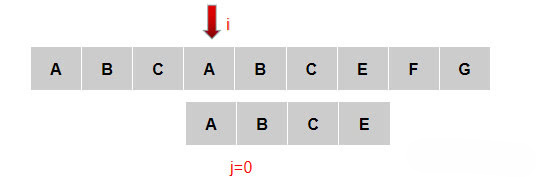
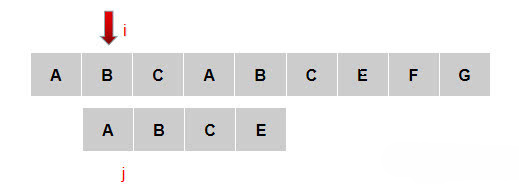
修改文档

diff --git a/doc/KMP/readme.md b/doc/KMP/readme.md
@@ -1,24 +1,36 @@
 ## 红黑树 
 
-> 红黑树，一种二叉查找树，但在每个结点上增加一个存储位表示结点的颜色，可以是Red或Black。
-通过对任何一条从根到叶子的路径上各个结点着色方式的限制，红黑树确保没有一条路径会比其他路径长出俩倍，因而是接近平衡的，红黑树，作为一棵二叉查找树，满足二叉查找树的一般性质：      
-1、若任意节点的左子树不空，则左子树上所有结点的值均小于它的根结点的值；     
-2、若任意节点的右子树不空，则右子树上所有结点的值均大于它的根结点的值；   
-3、任意节点的左、右子树也分别为二叉查找树。   
-4、没有键值相等的节点（no duplicate nodes）。   
+> Knuth-Morris-Pratt 字符串查找算法，简称为 “KMP算法”，常用于在一个文本串S内查找一个模式串P 的出现位置，这个算法由Donald Knuth、Vaughan Pratt、James H. Morris三人于1977年联合发表，故取这3人的姓氏命名此算法   
 
-### 红黑树的特性
-1、 每个节点或者是黑色，或者是红色。         
-2、根节点是黑色。     
-3、每个叶子节点是黑色。 [注意：这里叶子节点，是指为空的叶子节点！]         
-4、 如果一个节点是红色的，则它的子节点必须是黑色的。         
-5、 对于任意结点而言，其到叶结点树尾端NIL指针的每条路径都包含相同数目的黑结点。                 
+### 一般字符串匹配
 
-红黑树示意图如下：
+最基础的匹配思路：
+
+当匹配到如图第四个字符A位置后，匹配失败，子串回到第一个位置，主串后移，继续匹配
 ![Tree](../../res/KMP/kmp1.jpg)
 
+直到匹配成功
+![Tree](../../res/KMP/kmp2.jpg)
 
-### 红黑树的基本实现
+这种方式是效率最低，匹配次数最多的情况，接下来看KMP的解决思路
+
+### KMP思想
+
+KMP在遇到下图位置时，不会很无脑的把子串的j移动到第0位，主串的i移动到第1位，然后进行T[i]==P[j]的比较
+
+![Tree](../../res/KMP/kmp3.jpg)
+
+KMP思想：利用前面匹配的信息，保持i指针不变，通过修改j指针，让子串尽量地移动到有效的位置。
+
+先来看一下规律：
+
+![Tree](../../res/KMP/kmp3.jpg)
+
+如图：C和D不匹配了，我们要把j移动到哪？显然是第1位。为什么？因为前面有一个A相同可以用
+
+![Tree](../../res/KMP/kmp4.jpg)
+
+
 
 >红黑树的基本操作是添加、删除和旋转。在对红黑树进行添加或删除后，会用到旋转方法。为什么呢？道理很简单，添加或删除红黑树中的节点之后，红黑树就发生了变化，可能不满足红黑树的5条性质，也就不再是一颗红黑树了，而是一颗普通的树。而通过旋转，可以使这颗树重新成为红黑树。简单点说，旋转的目的是让树保持红黑树的特性。
 旋转包括两种：左旋 和 右旋。下面分别对旋转(左旋和右旋)、添加、删除进行介绍。
